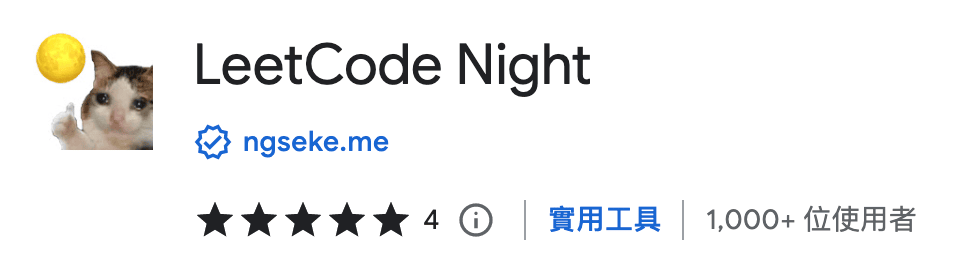
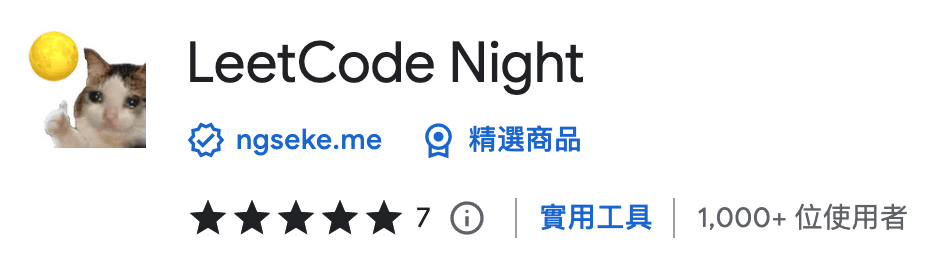
feat: update article

Changed region(s): [[0.0307, 0.1194, 0.6131, 0.597], [0.1839, 0.7164, 0.981, 0.8955]]

diff --git a/src/pages/project/leetcode-night.md b/src/pages/project/leetcode-night.md
@@ -20,9 +20,9 @@ tags:
 
 某夜在深夜刷題的我突發奇想，說不定我可以取用力扣的色票，直接複寫 LeetCode 的樣式來實現深色模式，於是便誕生了這個專案。
 
-原本也僅僅是寫好玩，就把它扔上了 GitHub，甚至連名字都是隨意取的。後來發現其實[蠻多人](https://leetcode.com/discuss/general-discussion/544429/dark-mode)都在跟官方敲碗深色模式。因此後來我決定把它上架到商店，讓它變得更親民、更容易安裝。對我來說，這也是個難得可以從頭到尾，完整地開發擴充套件的機會。過程除了前端相關的開發、打包、上版號，甚至也包含 UI 和 Logo 設計 、截圖和宣傳橫幅的設計、發布送審套件等。
+原本也僅僅是寫好玩，就把它扔上了 GitHub，甚至連名字都是隨意取的。後來發現其實[蠻多人](https://leetcode.com/discuss/general-discussion/544429/dark-mode)都在跟官方敲碗深色模式。因此後來我決定把它上架到商店，讓它變得更容易安裝。對我來說，這也是個難得可以從頭到尾，完整地開發擴充套件的機會。過程除了前端相關的開發、打包、上版號，甚至也包含 UI 和 Logo 設計 、截圖和宣傳橫幅的設計、發布送審套件等。
 
-經過了半年左右時間，使用者終於人數突破了 1K，還拿到了一個小藍勾勾（徽章），也算是達成了不值得一提的小小成就。
+經過了半年左右時間，使用者人數終於突破了 1K，還獲得了藍勾 & 精選商品徽章，也算是達成了不值一提的小小成就。
 
 ![](../../assets/img/project/leetcode-night/store.png)
 
@@ -36,6 +36,8 @@ tags:
 - 使用 react-i18next 本地化
 - 透過 Webpack css-loader 向頁面注入複寫用的 SASS 樣式
 
+![Popup 視窗](../../assets/img/project/leetcode-night/2.png)
+
 
 此外還有附加以下便利功能：
 
@@ -43,11 +45,7 @@ tags:
 2. 輸入 Question Number 來迅速跳轉至題目頁，此插件會將題目列表緩存至本機，無需等待 API 回應
 3. 自動清空編輯器裡前一次送出過的程式碼，特別適合刷題狂人，避免不小心瞄到答案
 
-
-
 ![啟用 LeetCode 深色模式](../../assets/img/project/leetcode-night/1.png)
-![Popup 視窗](../../assets/img/project/leetcode-night/2.png)
-
 
 ## Demo
 
